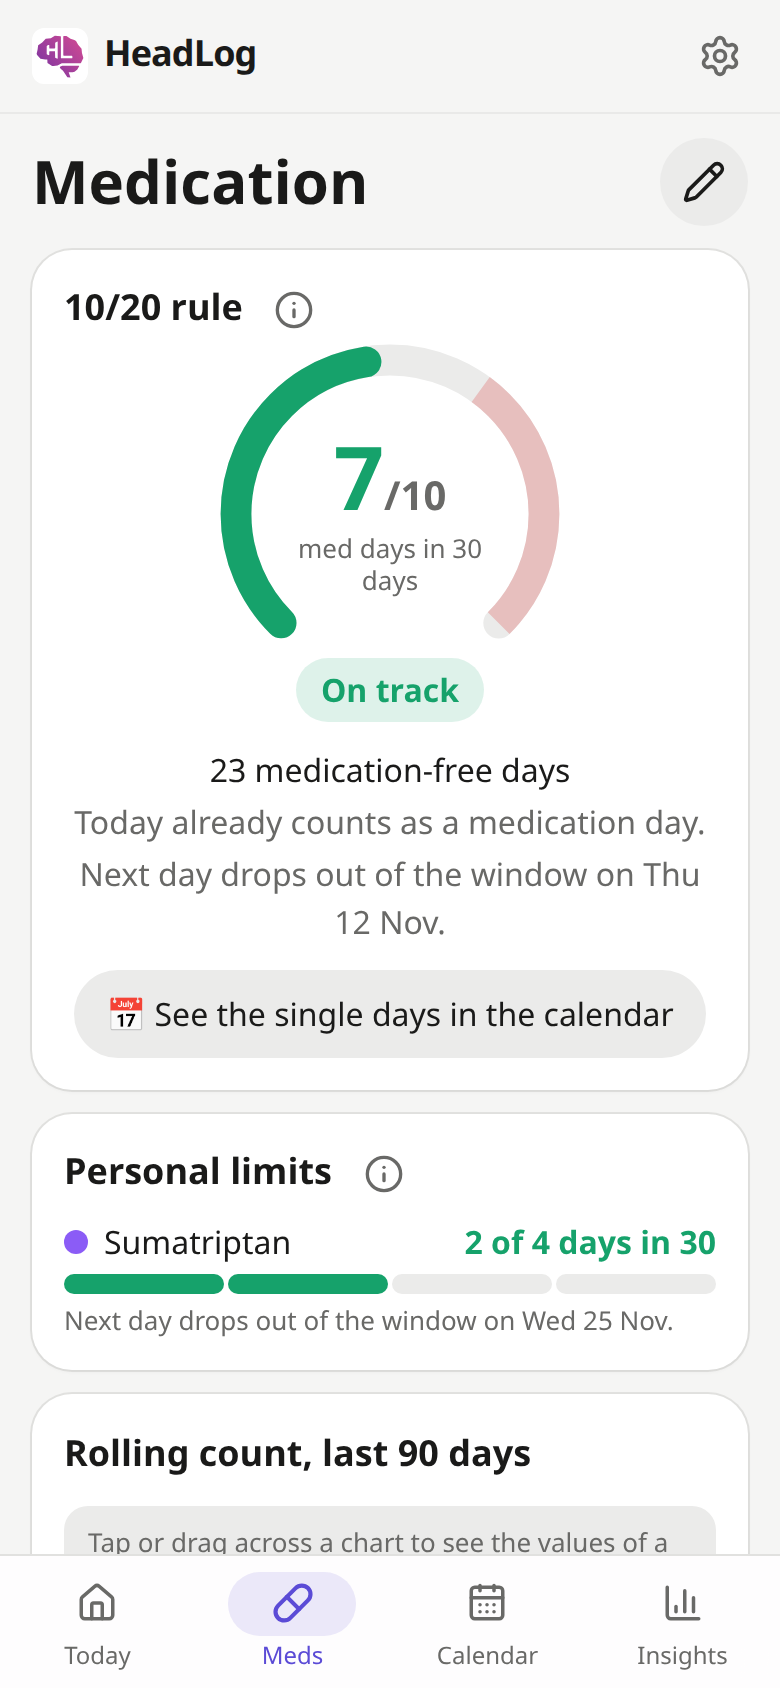
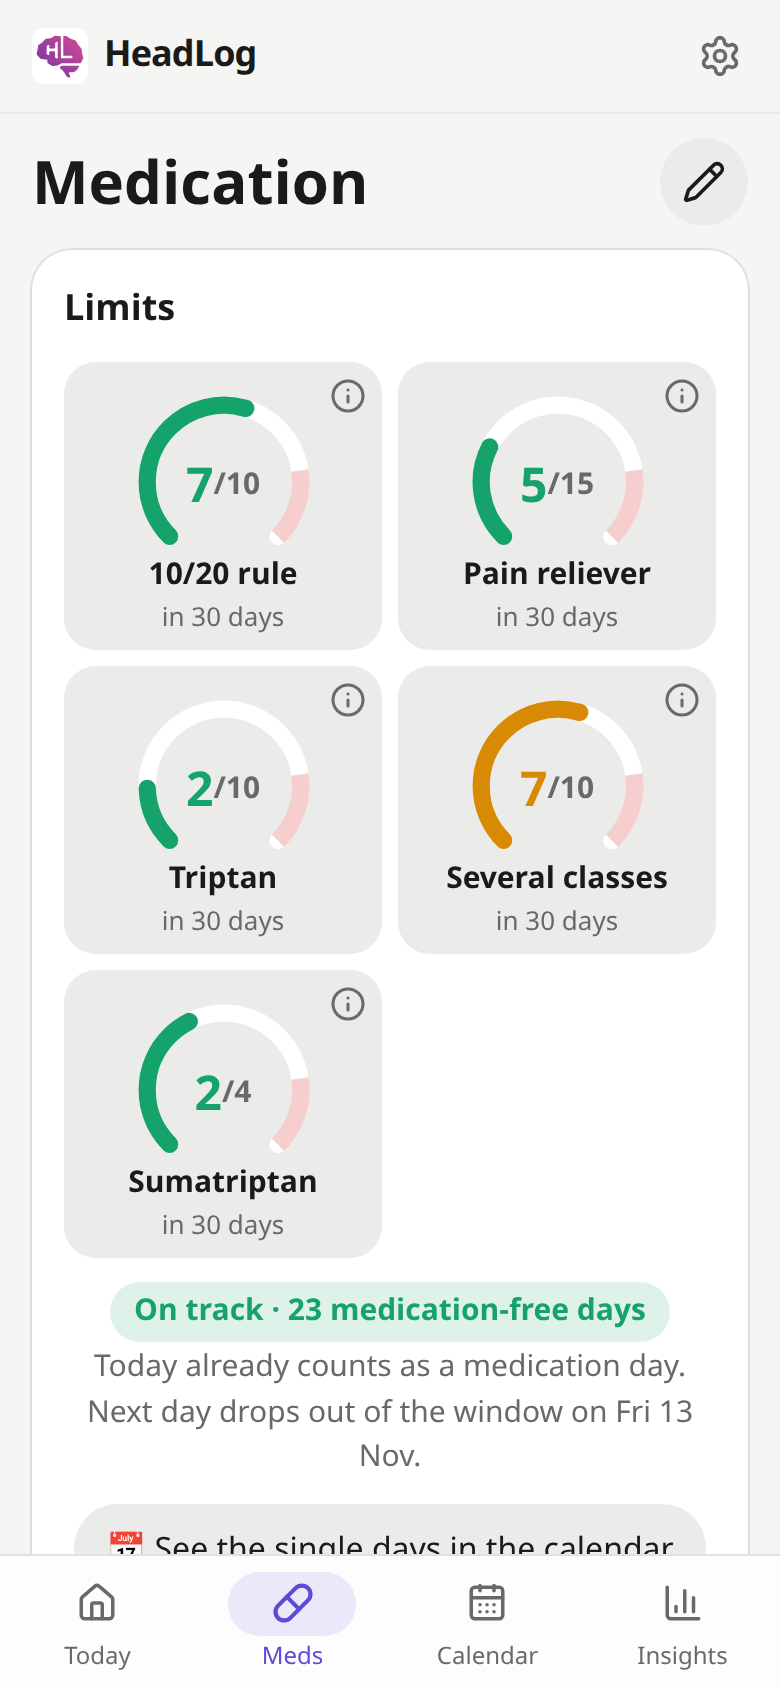
Release 0.33.0 (#121)

diff --git a/CHANGELOG.md b/CHANGELOG.md
@@ -2,6 +2,8 @@
 
 ## [Unreleased]
 
+## [0.33.0] - 2026-11-11
+
 ### Changed
 
 - Meds: all limits as wheels, two per row: the 10/20 rule, the overuse limit of each class used in the last 30 days and each personal limit. Each wheel has its own (i) with its rule, what studies show and sources. Overuse now counts the last 30 days instead of the calendar month; ICHD-3 says days per month without fixing which month.
